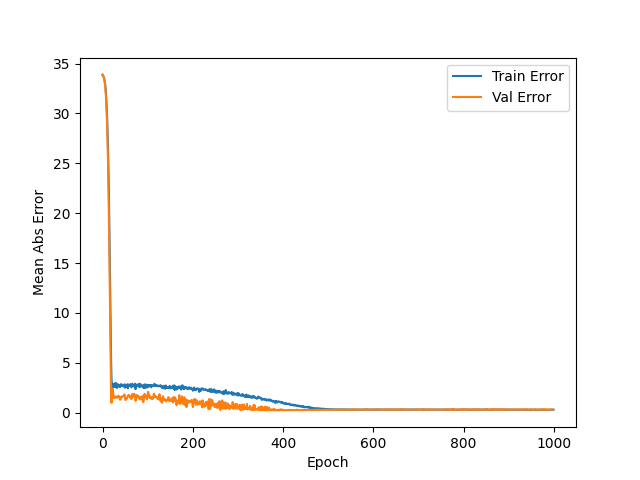
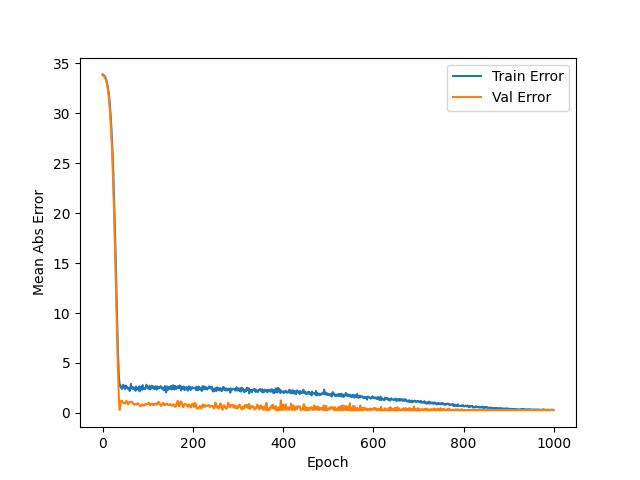
check second time

Changed region(s): [[0.1562, 0.1562, 0.875, 0.875]]

diff --git a/feedforward.py b/feedforward.py
@@ -20,12 +20,9 @@ from sklearn.model_selection import cross_val_score
 from sklearn.model_selection import KFold
 from sklearn.preprocessing import StandardScaler
 from sklearn.pipeline import Pipeline
-from sklearn.exceptions import FitFailedWarning
-
 from keras.callbacks import EarlyStopping
 from keras.callbacks import ModelCheckpoint
 
-import warnings
 
 from thesisproject_Fede import *
 from features import fMAV
@@ -86,7 +83,7 @@ def main():
     #train_features, test_features, train_target, test_target = train_test_split(X, Y, test_size = 0.25, random_state = 42, shuffle = False)
     
     #using a split of 80-20
-    train_size = int(len(X)*0.80)
+    train_size = int(len(X)*0.50)
     train_features, test_features = X[0:train_size], X[train_size:len(X)]
     train_val_size = int(len(train_features)*0.80)
     train_features, val_features= train_features[0:train_val_size],train_features[train_val_size:len(train_features)]
